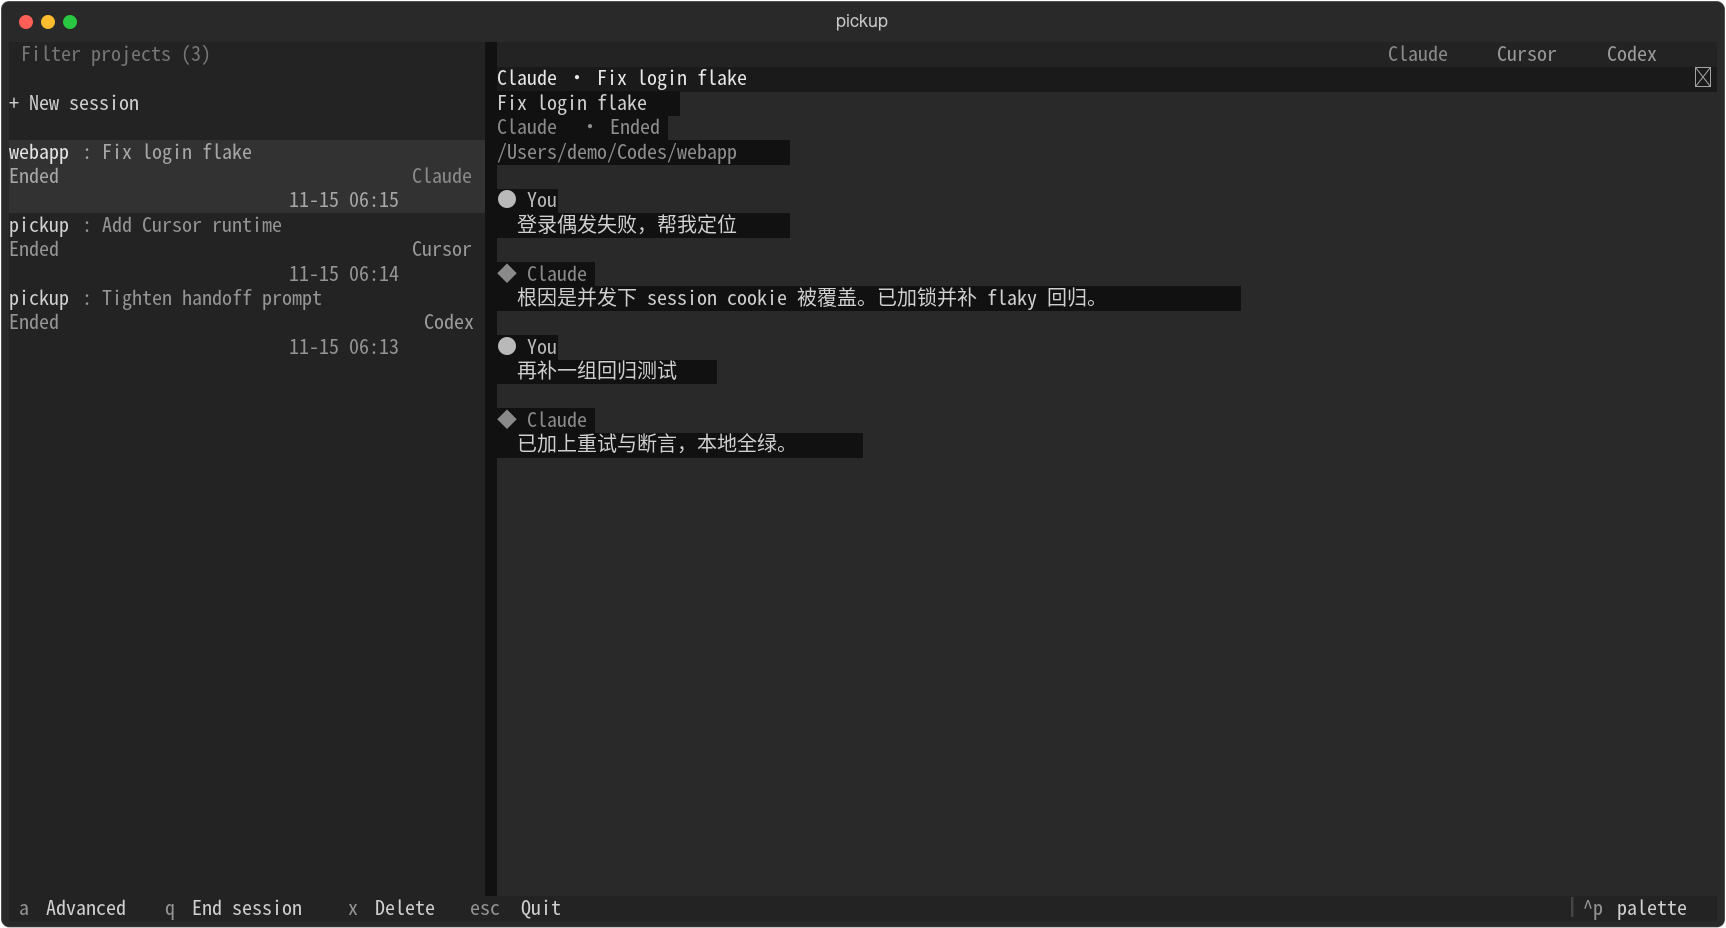
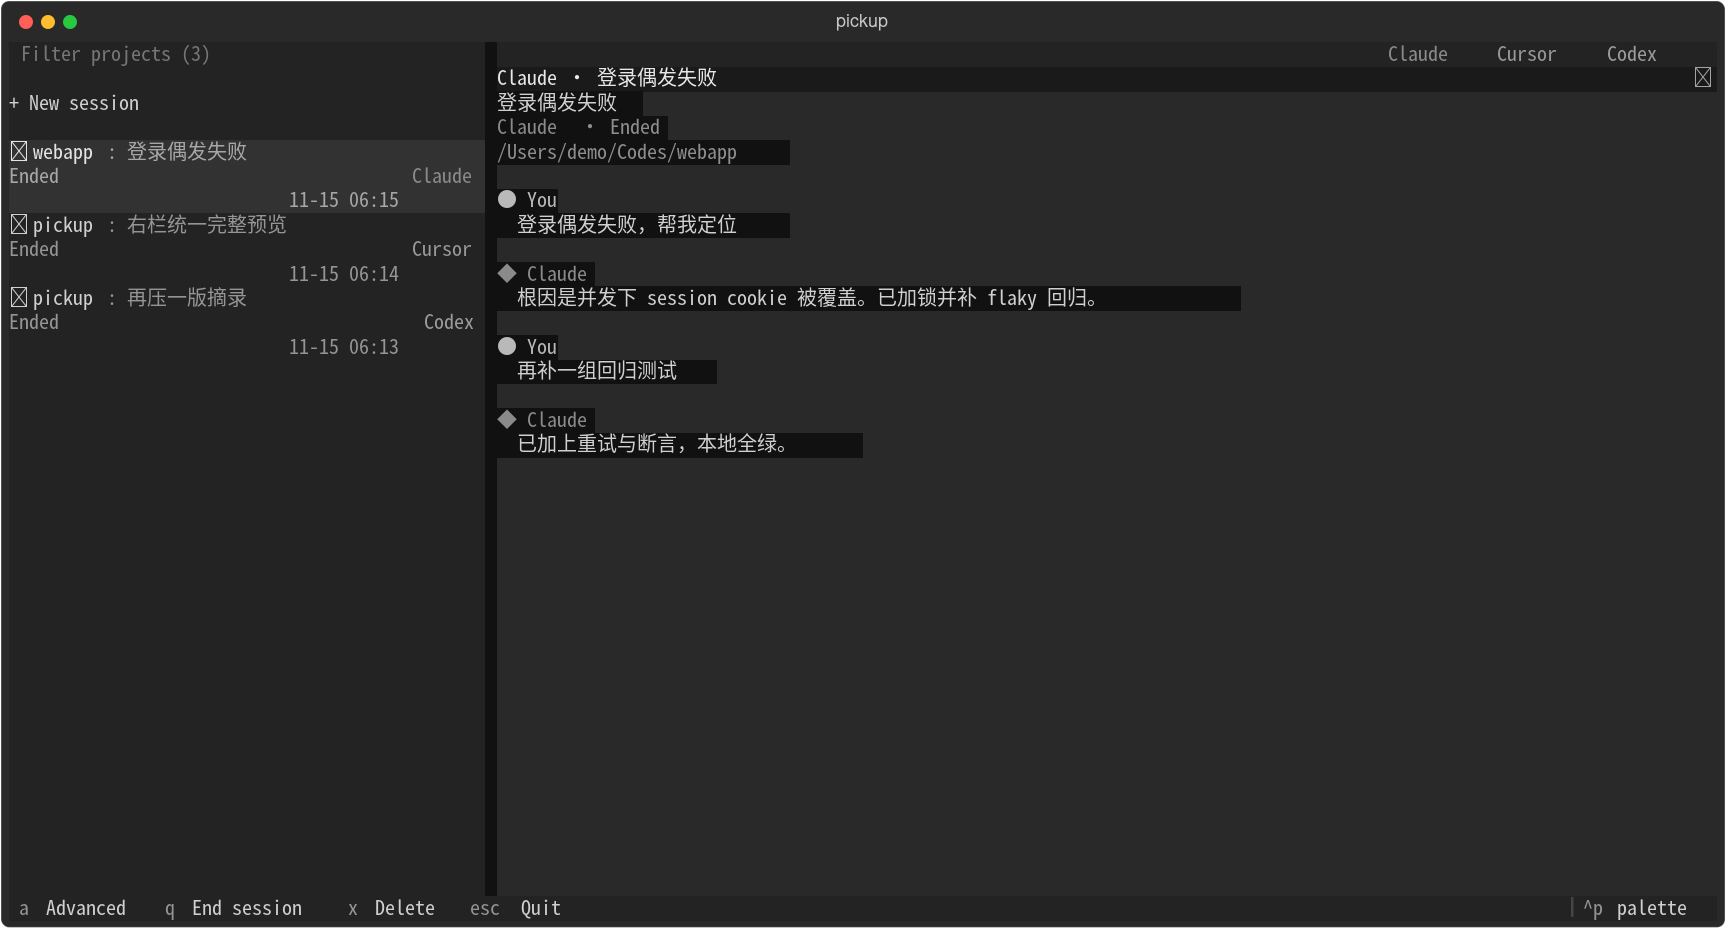
release: v0.24.1 完善预编译安装与性能基准

diff --git a/scripts/benchmark.py b/scripts/benchmark.py
@@ -44,9 +44,13 @@ def main() -> None:
         result = registry.scan_all(args.limit)
         last_count = sum(len(bucket) for bucket in result.values())
 
+    started = time.perf_counter()
+    scan()
+    first_process_scan_ms = round((time.perf_counter() - started) * 1000, 3)
     output = {
         "native": available(),
-        "scan_all": _measure(scan, max(3, args.rounds // 4)),
+        "scan_first_process_ms": first_process_scan_ms,
+        "scan_warm": _measure(scan, max(3, args.rounds // 4)),
         "session_count": last_count,
         "ansi_frame_174x61": _measure(
             lambda: embed.parse_screen_rows(frame, 174, 61), args.rounds,

diff --git a/rust/lib.rs b/rust/lib.rs
@@ -45,7 +45,8 @@ fn value_to_python(py: Python<'_>, value: Value) -> PyResult<PyObject> {
 
 #[pyfunction]
 fn loads(py: Python<'_>, data: &[u8]) -> PyResult<PyObject> {
-    let value: Value = serde_json::from_slice(data)
+    let value: Value = py
+        .allow_threads(|| serde_json::from_slice(data))
         .map_err(|error| PyValueError::new_err(format!("JSON 解析失败：{error}")))?;
     value_to_python(py, value)
 }

diff --git a/src/pickup/__init__.py b/src/pickup/__init__.py
@@ -9,7 +9,7 @@ from __future__ import annotations
 import importlib
 import sys as sys
 
-__version__ = "0.24.0"
+__version__ = "0.24.1"
 
 _MODULE_EXPORTS = {"embed", "keepalive", "titles", "updater", "split_layout", "observe", "theme"}
 _STANDARD_MODULE_EXPORTS = {"shutil"}